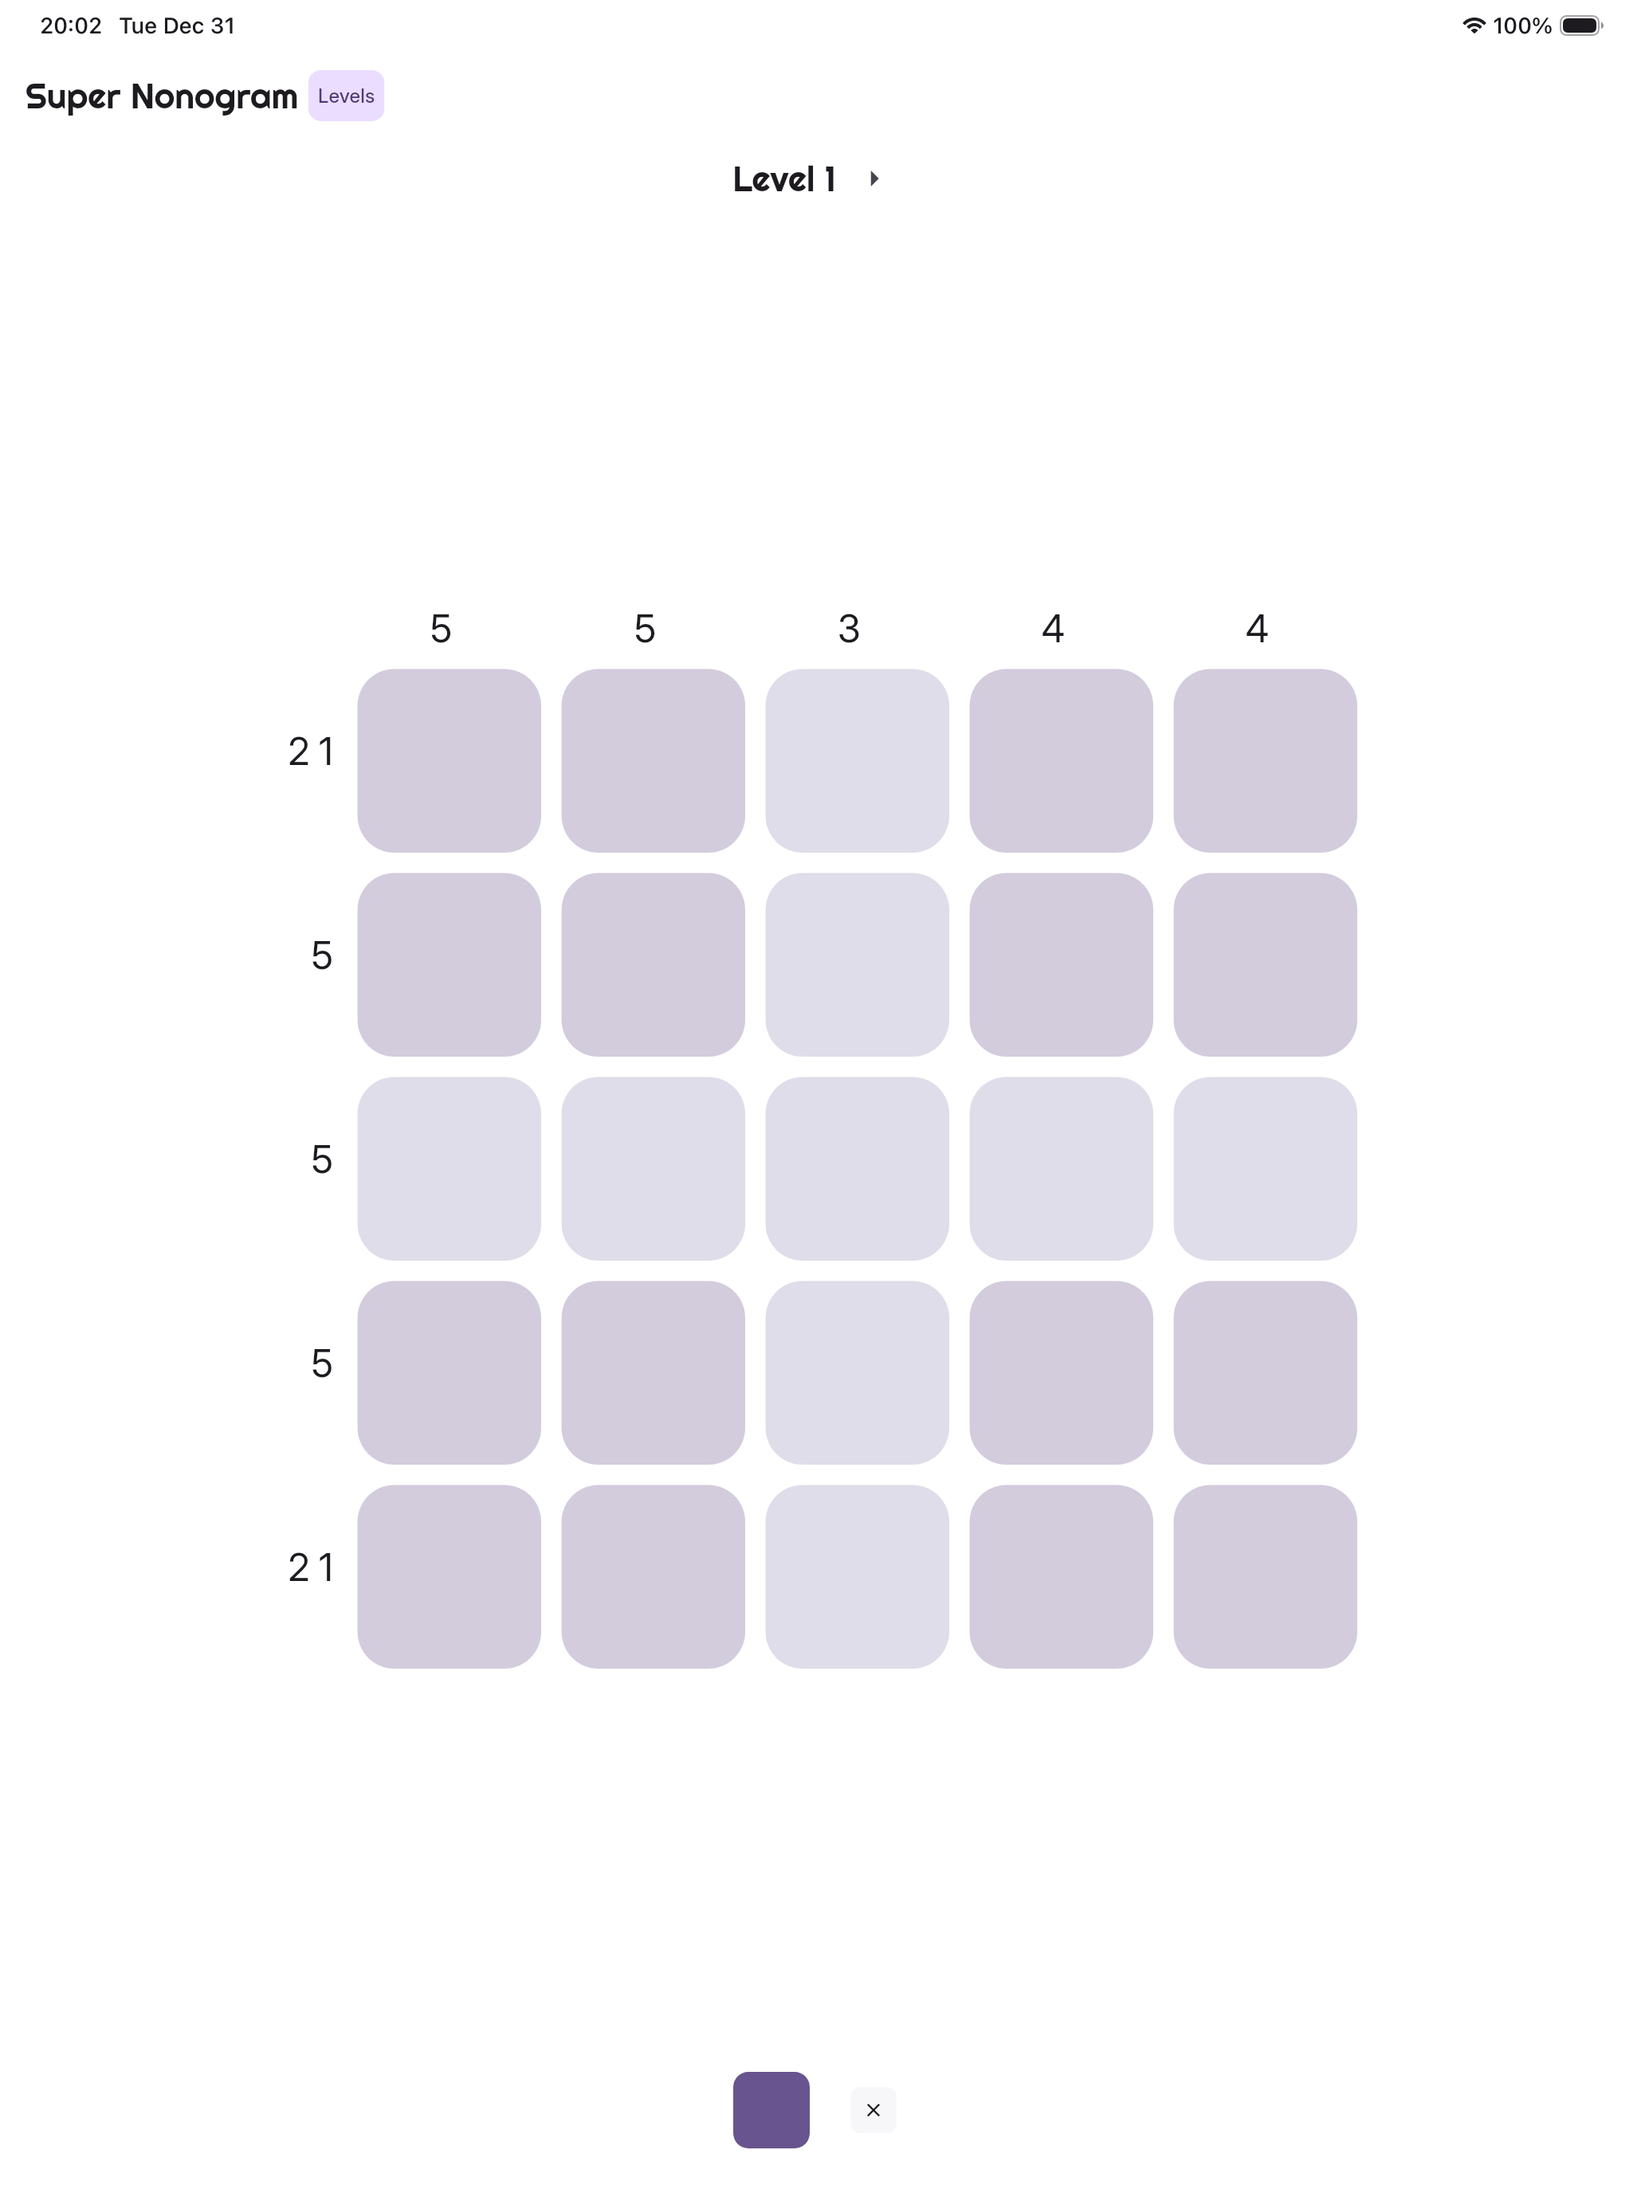
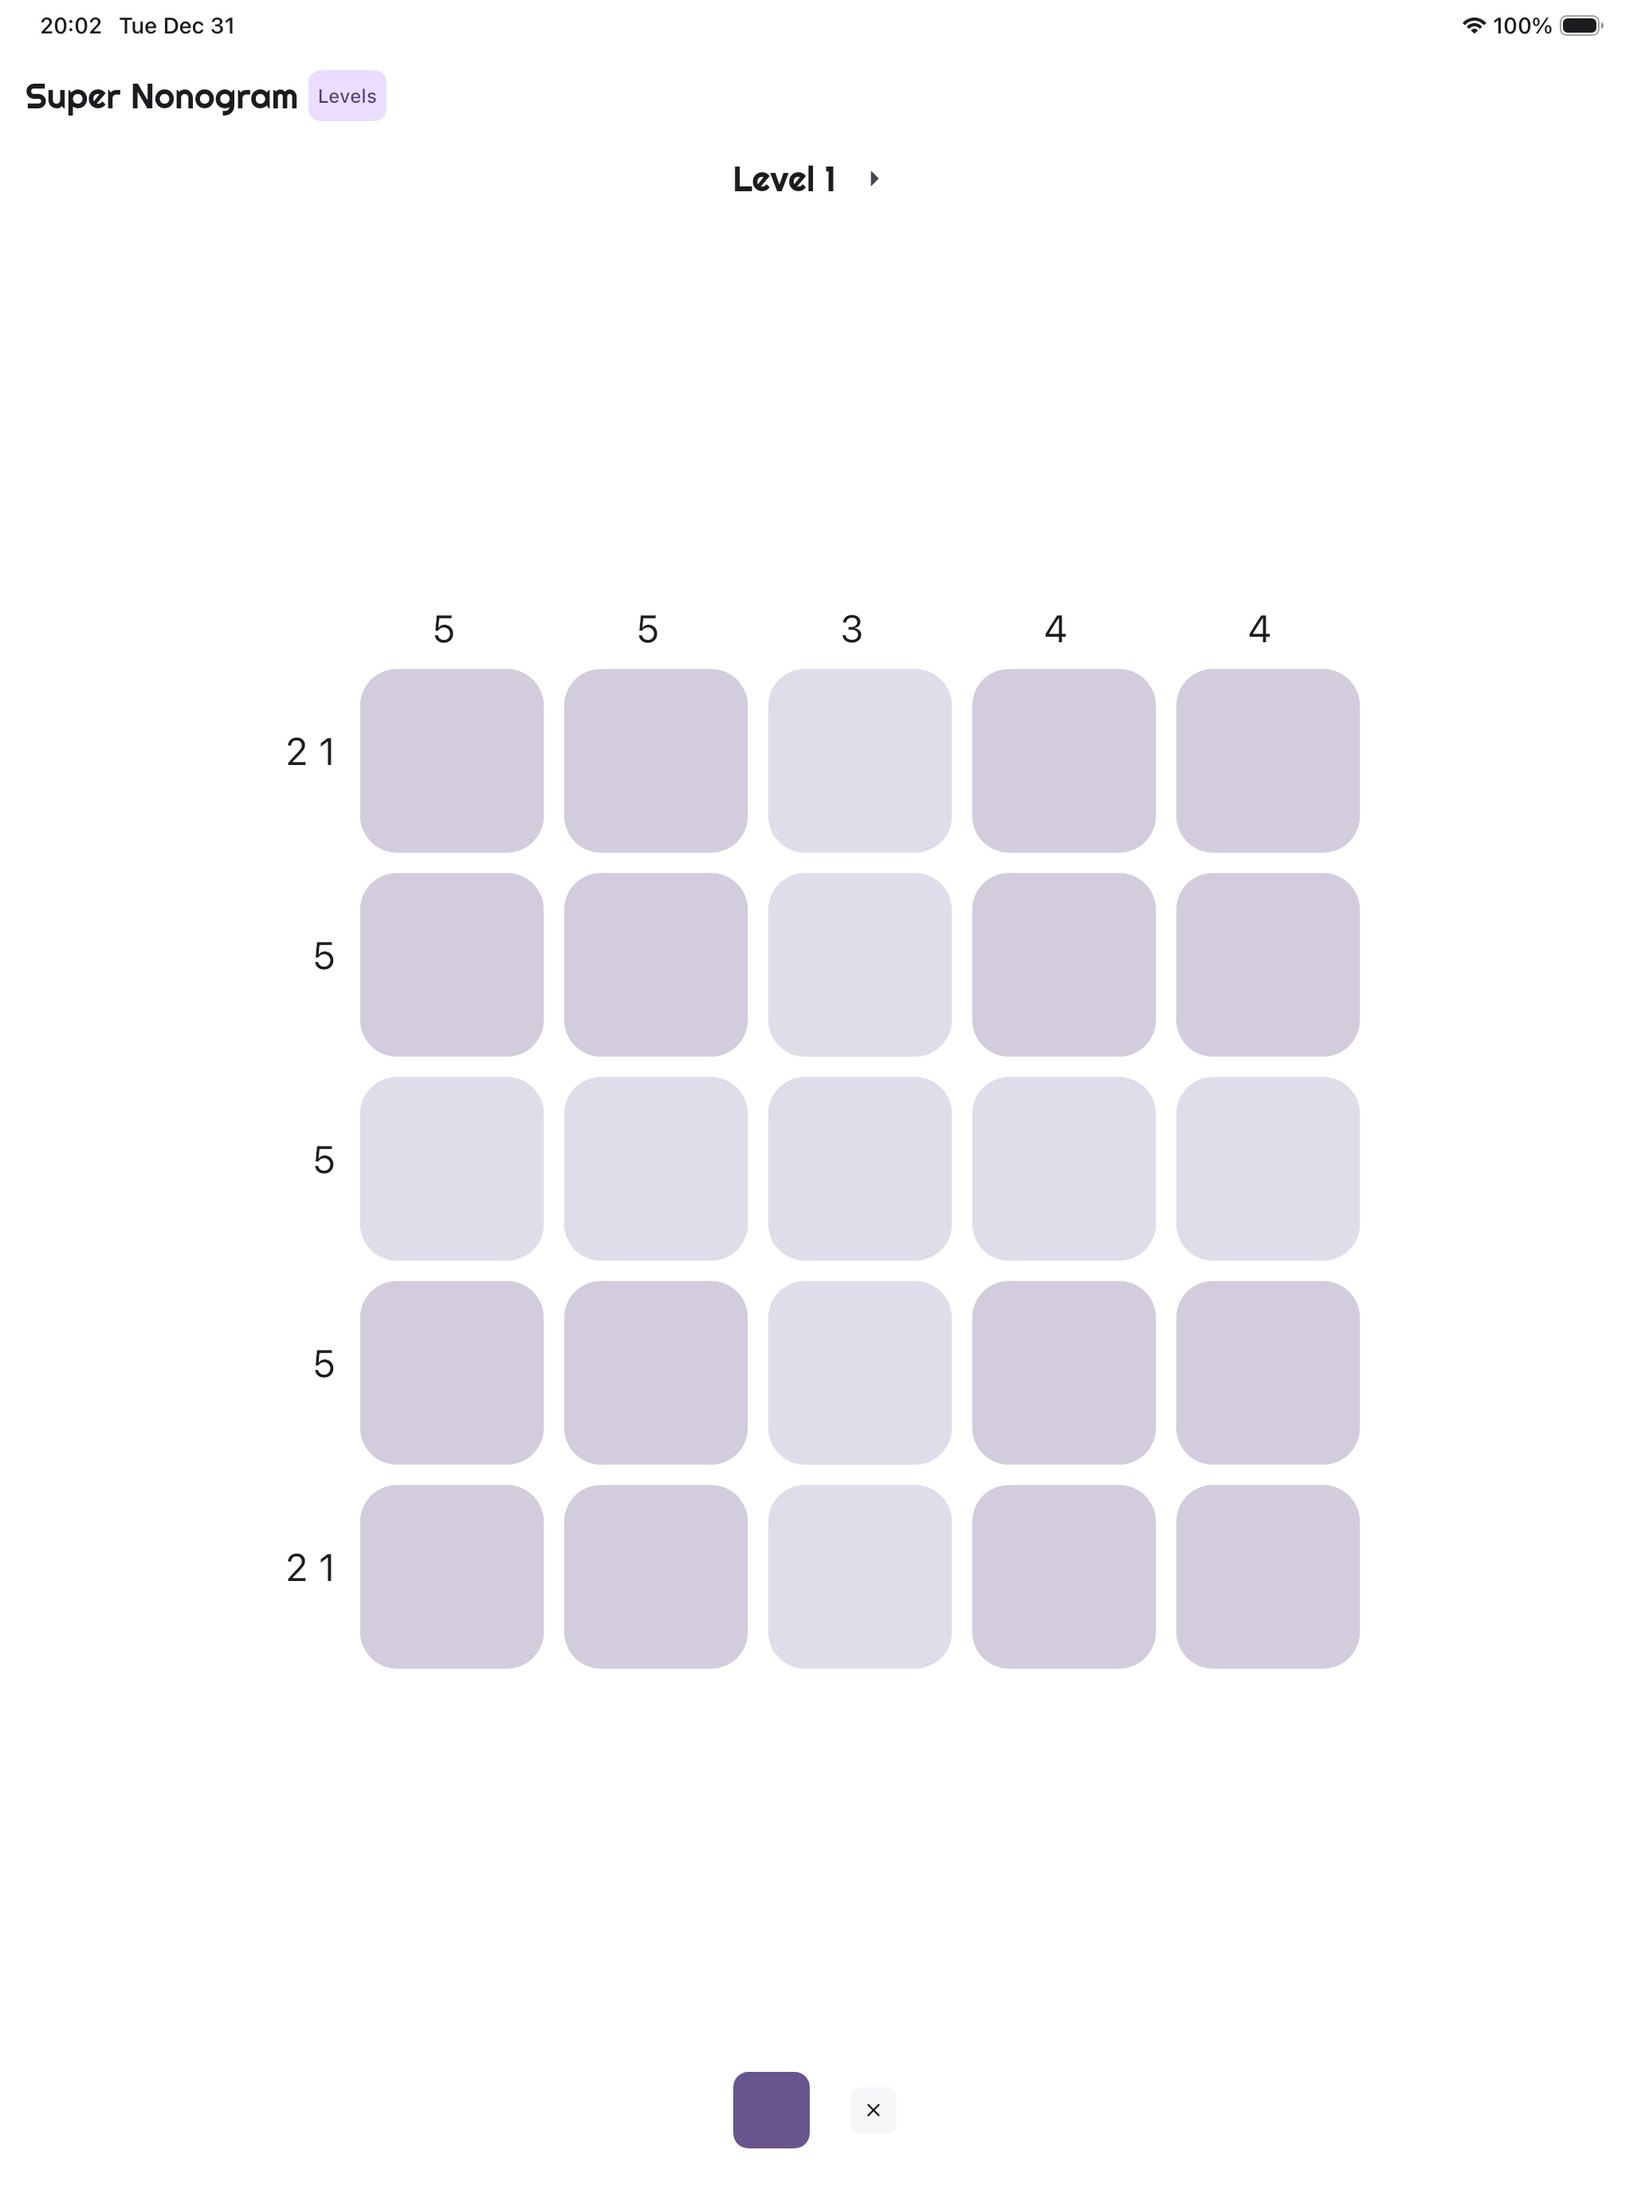
test: use apple fonts (don't use defaultTargetPlatform)

diff --git a/lib/theme/theme.dart b/lib/theme/theme.dart
@@ -22,7 +22,11 @@ abstract class SuperNonogramTheme {
           : Colors.black;
       colorScheme = colorScheme.copyWith(surface: plainBackground);
     }
-    final textTheme = getTextTheme(stows.hyperlegibleFont.value, colorScheme);
+    final textTheme = getTextTheme(
+      platform,
+      colorScheme,
+      stows.hyperlegibleFont.value,
+    );
     return ThemeData(
       colorScheme: colorScheme,
       textTheme: textTheme,
@@ -43,9 +47,13 @@ abstract class SuperNonogramTheme {
     );
   }
 
-  static TextTheme getTextTheme(bool useHyperlegible, ColorScheme colorScheme) {
+  static TextTheme getTextTheme(
+    TargetPlatform platform,
+    ColorScheme colorScheme,
+    bool useHyperlegible,
+  ) {
     final typography = Typography.material2021(
-      platform: defaultTargetPlatform,
+      platform: platform,
       colorScheme: colorScheme,
     );
     final base = colorScheme.brightness == Brightness.dark
